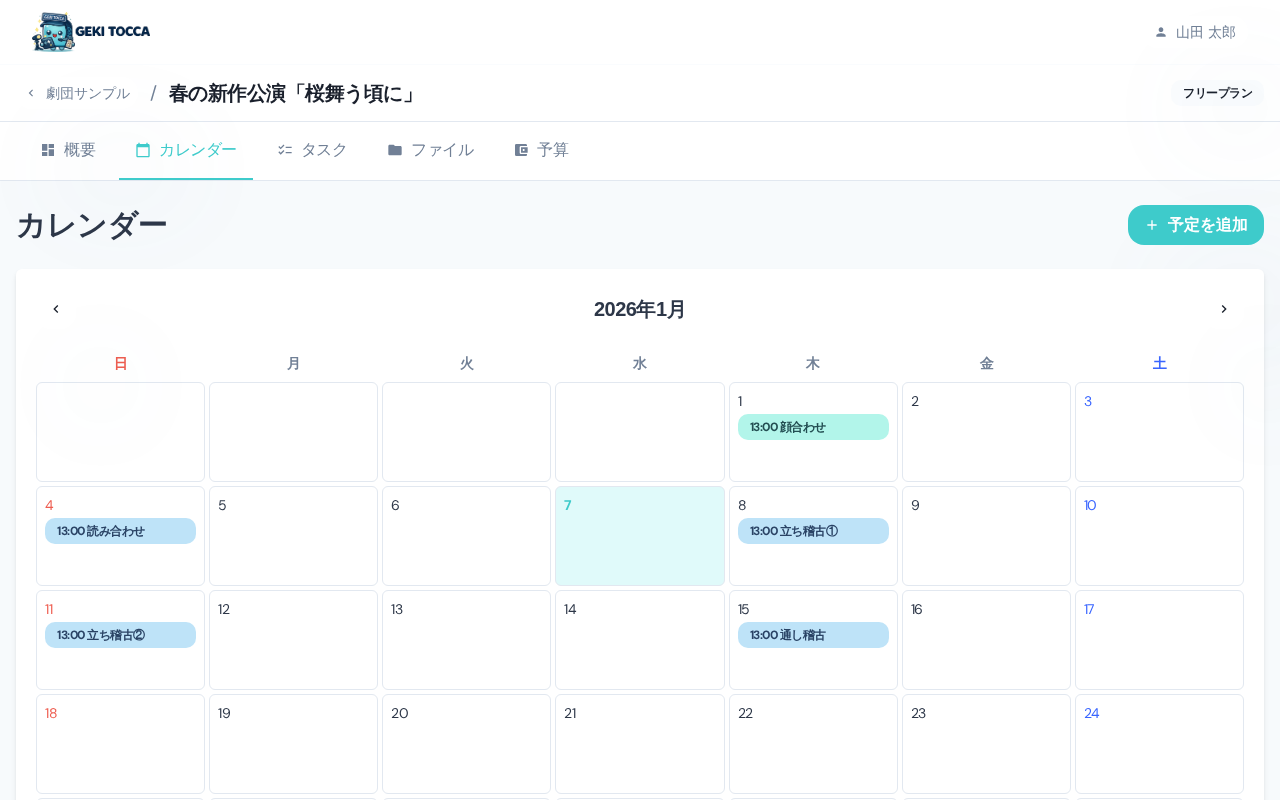
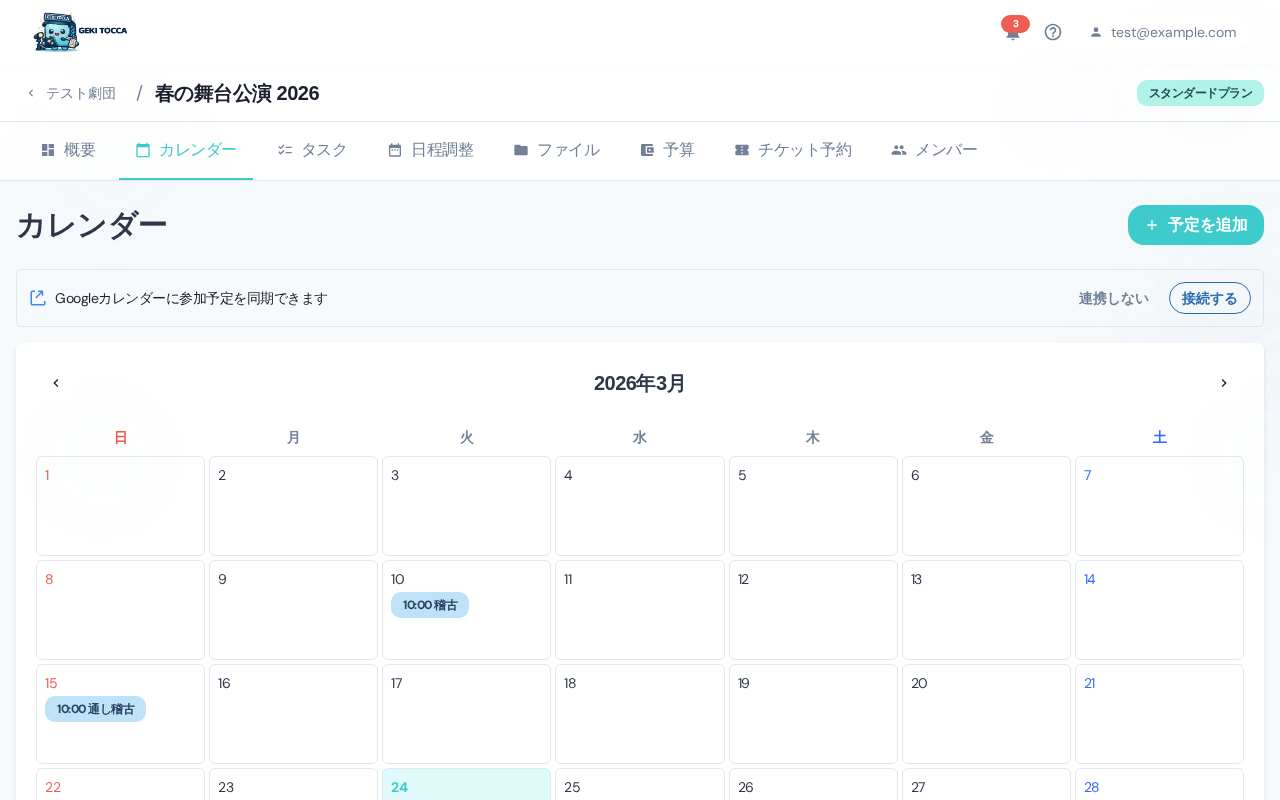
feat: LP未掲載機能を追加 — 日程調整・ファイル管理・グループ・通知・GCal
SecondaryFeatures: 日程調整・ファイル管理・メンバー/グループ管理・通知設定を
スクリーンショット付きで追加
PrimaryFeatures: スケジュール管理・メンバー管理の説明を新機能に合わせて更新
GuideContent: 日程調整・ファイル管理のステップを追加
Pricing: フリープランにファイル管理・グループ・客演招待を明記、
スタンダードプランにGoogleカレンダー連携を追加

diff --git a/src/components/GuideContent.tsx b/src/components/GuideContent.tsx
@@ -66,8 +66,8 @@ const steps = [
     number: 6,
     title: 'メンバーを招待',
     description:
-      '招待リンクを共有するだけで、チームメンバーを団体に追加。メンバーごとに管理者・メンバーの権限を設定して、安全に運用できます。',
-    image: '/screenshots/members.png',
+      '招待リンクを共有するだけで、チームメンバーを団体に追加。公演グループでチーム分けしたり、客演招待リンクで外部メンバーをゲスト参加させることもできます。',
+    image: '/screenshots/members-groups.png',
     icon: (
       <svg className="h-6 w-6" fill="none" viewBox="0 0 24 24" stroke="currentColor">
         <path strokeLinecap="round" strokeLinejoin="round" strokeWidth={1.5} d="M12 4.354a4 4 0 110 5.292M15 21H3v-1a6 6 0 0112 0v1zm0 0h6v-1a6 6 0 00-9-5.197m13.5-9a2.5 2.5 0 11-5 0 2.5 2.5 0 015 0z" />
@@ -76,6 +76,31 @@ const steps = [
   },
   {
     number: 7,
+    title: '日程調整',
+    description:
+      '候補日を提示してメンバーの空き時間を収集。回答状況を一覧で比較し、最適な日程をワンクリックで決定。役職やグループで回答対象者を絞り込めます。',
+    image: '/screenshots/schedules-detail.png',
+    badge: 'フリー: 1公演のみ',
+    icon: (
+      <svg className="h-6 w-6" fill="none" viewBox="0 0 24 24" stroke="currentColor">
+        <path strokeLinecap="round" strokeLinejoin="round" strokeWidth={1.5} d="M8 7V3m8 4V3m-9 8h10M5 21h14a2 2 0 002-2V7a2 2 0 00-2-2H5a2 2 0 00-2 2v12a2 2 0 002 2z" />
+      </svg>
+    ),
+  },
+  {
+    number: 8,
+    title: 'ファイル管理',
+    description:
+      '台本・図面・資料をアップロードして一元管理。タスクやイベントに紐づけて、必要な資料にすぐアクセスできます。',
+    image: '/screenshots/files.png',
+    icon: (
+      <svg className="h-6 w-6" fill="none" viewBox="0 0 24 24" stroke="currentColor">
+        <path strokeLinecap="round" strokeLinejoin="round" strokeWidth={1.5} d="M7 21h10a2 2 0 002-2V9.414a1 1 0 00-.293-.707l-5.414-5.414A1 1 0 0012.586 3H7a2 2 0 00-2 2v14a2 2 0 002 2z" />
+      </svg>
+    ),
+  },
+  {
+    number: 9,
     title: '予算管理',
     description:
       '公演の予算を設定し、経費をカテゴリごとに記録・管理。支出状況をリアルタイムで把握し、予算オーバーを未然に防ぎます。',
@@ -93,7 +118,7 @@ export function GuideContent({ hasBudgetImage = true }: { hasBudgetImage?: boole
   return (
     <div className="space-y-16 lg:space-y-24">
       {steps.map((step, index) => {
-        const showImage = step.image && (step.number !== 7 || hasBudgetImage)
+        const showImage = step.image && (step.number !== 9 || hasBudgetImage)
         const isEven = index % 2 === 1
 
         return (

diff --git a/src/components/SecondaryFeatures.tsx b/src/components/SecondaryFeatures.tsx
@@ -13,27 +13,40 @@ const features = [
       '担当者・期限・優先度を設定して、公演準備の進捗を可視化。',
     image: '/screenshots/tasks.png',
   },
-  // TODO: 予算管理のスクリーンショットにデータが入ったら追加
-  // {
-  //   name: '予算管理',
-  //   summary: '公演の収支を一目で把握',
-  //   description:
-  //     '支出・収入の記録、チケット売上管理、立替精算まで、お金の管理をシンプルに。',
-  //   image: '/screenshots/budget.png',
-  // },
   {
     name: 'カレンダー',
     summary: '稽古・本番のスケジュールを一元管理',
     description:
-      '稽古、ミーティング、本番など、すべての予定をカレンダーで管理。',
+      '稽古、ミーティング、本番など、すべての予定をカレンダーで管理。Googleカレンダーとの連携で個人の予定と一緒に確認できます。',
     image: '/screenshots/calendar.png',
   },
   {
-    name: '役職管理',
-    summary: '演劇特有の役職をカスタマイズ',
+    name: '日程調整',
+    summary: 'メンバーの空き時間を見える化',
     description:
-      '演出、舞台監督、照明、音響など、演劇制作特有の役職を自由に設定。',
-    image: '/screenshots/positions.png',
+      '候補日を提示してメンバーが空き時間を回答。全員の都合を一覧で比較して、最適な日程をワンクリックで決定できます。',
+    image: '/screenshots/schedules-detail.png',
+  },
+  {
+    name: 'ファイル管理',
+    summary: '台本・図面・資料をまとめて共有',
+    description:
+      '公演に関するファイルをアップロードして一元管理。タスクやイベントに紐づけて、必要な資料にすぐアクセスできます。',
+    image: '/screenshots/files.png',
+  },
+  {
+    name: 'メンバー・グループ管理',
+    summary: 'チーム編成を柔軟に管理',
+    description:
+      '役職管理、公演グループでのチーム分け、客演招待リンクでの外部メンバー参加に対応。オムニバス公演のチーム分けもスムーズです。',
+    image: '/screenshots/members-groups.png',
+  },
+  {
+    name: '通知設定',
+    summary: '必要な情報だけを受け取る',
+    description:
+      'イベント変更、タスク更新、予約通知などをタイプ別にON/OFF。プッシュ通知にも対応し、重要な情報を見逃しません。',
+    image: '/screenshots/notification-settings.png',
   },
   {
     name: 'チケット予約',

diff --git a/src/components/PrimaryFeatures.tsx b/src/components/PrimaryFeatures.tsx
@@ -33,7 +33,7 @@ const features = [
   {
     title: 'スケジュール管理',
     description:
-      '稽古・本番・ミーティングなど、すべてのイベントをカレンダーで一元管理。予定変更も素早く共有できます。',
+      '稽古・本番・ミーティングなどをカレンダーで一元管理。日程調整機能で空き時間を集計し、Googleカレンダー連携で個人の予定と同期。',
     image: '/logo_schedule.png',
     icon: (
       <svg className="h-8 w-8" fill="none" viewBox="0 0 24 24" stroke="currentColor">
@@ -44,7 +44,7 @@ const features = [
   {
     title: 'メンバー管理',
     description:
-      'キャスト・スタッフをまとめて管理。招待リンクで簡単に参加でき、ロールごとに権限を設定できます。',
+      'キャスト・スタッフをまとめて管理。公演グループでチーム分け、客演招待で外部メンバーもゲスト参加。通知設定で必要な情報だけ受け取れます。',
     image: '/logo_member.png',
     icon: (
       <svg className="h-8 w-8" fill="none" viewBox="0 0 24 24" stroke="currentColor">

diff --git a/src/components/Pricing.tsx b/src/components/Pricing.tsx
@@ -150,7 +150,8 @@ export function Pricing() {
               'ストレージ100MB（1ファイル10MBまで）',
               'タスク管理',
               'スケジュール管理',
-              'メンバー管理',
+              'ファイル管理',
+              'メンバー管理（グループ・客演招待）',
               '予算・予約・日程調整（1公演のみ）',
               '通知機能',
             ]}
@@ -168,9 +169,10 @@ export function Pricing() {
               'メンバー数 無制限',
               'ストレージ10GB（1ファイル50MBまで）',
               'ファイルのタスク・イベント紐づけ',
+              'Googleカレンダー連携',
               'タスクテンプレート',
               '予算・予約・日程調整（全公演で利用可能）',
-              '通知機能',
+              '通知機能（プッシュ通知対応）',
               '新機能の先行利用',
               '優先サポート',
             ]}
